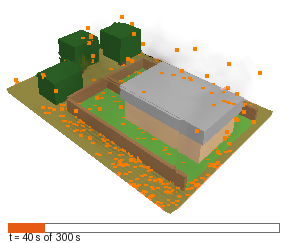
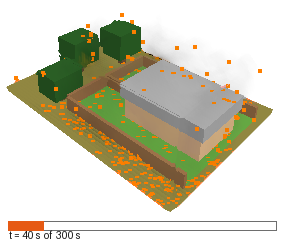
experiment 12 re-solved under the pipeline: 48.0 min, validate passes, finding reproduced
The dvc.yaml still wrote to FDS/cases/wick4 and passed run_fds.py the removed --case option, so it could not run. Now: deck path with its data directory, outputs to data/, config gains case_dir and ini_template, view.ini from the case's saved wick4.ini.

Solve 2,879 s of stepping, 48.0 min wall, against 51 min originally. Wall reaches 137 C at t=300 s against 136.2 C recorded and never approaches 350, so the finding -- the ladder tree is the dominant path, the fence spur alone does not light the house -- is reproduced.

README's wall_temperature.txt was in results/, which the render stage replaced; recorded rather than left dangling.

diff --git a/experiments/12_no_ladder_tree/README.md b/experiments/12_no_ladder_tree/README.md
@@ -55,9 +55,18 @@ Two caveats, stated plainly:
 My stated expectation was that the wall would still ignite but later. That was
 wrong — it does not ignite at all.
 
-**Cost.** 300 s in **51 min**, faster than the 70 min estimated.
+**Cost.** 300 s in **51 min** on the original run, **48.0 min** on the re-run
+under the pipeline (2,879 s of stepping), which agrees with the 70 min estimate
+being pessimistic.
 
-**Status.** Complete. Started 22:35, finished ~23:27.
+## Pipeline
+
+`dvc repro experiments/12_no_ladder_tree/dvc.yaml` runs four stages: solve,
+boundary, render, validate. `dvc.lock` is committed. Solver output goes to
+`data/`, this case's settings are in `render.json`, the saved viewpoint is
+`view.ini`. The `.s3d` volumes are uncached. The re-run passed `VALIDATION:
+PASS` and reproduced the finding to within a degree: the wall reaches 137 °C at
+t=300 s against 136.2 °C originally, and never approaches 350.
 
 **Note on embers.** Unlike the recorded experiment 07 run, this case has
 `EMBER_GENERATION_HEIGHT = 1.0, 8.0` on the grass surface, so its embers
@@ -68,19 +77,17 @@ actually loft. Experiment 07's deck was missing it; see that README.
 - `run_wick4.py` — native arm64, 4 threads
 - `wait_and_analyse.py` — waits for the solve, then the wall-temperature table
 - `render.json` — this case's config for the shared render pipeline
-- `results/` — `ignition_data.gif` (23 frames, time bar), `i_040.png`, `i_300.png`,
-  `wall_temperature.txt`
+- `view.ini` — the saved viewpoint
+- `results/` — `ignition_data.gif` (time bar), `i_040.png`, `i_300.png`
 
-Rendering uses the shared tools; see `docs/rendering.md`:
+The `wall_temperature.txt` this README used to list was in `results/`, which is
+a pipeline output: DVC replaced the directory's contents when the render ran.
+The numbers are in the table above and in `data/ign_state.json`.
 
-```bash
-python3 scripts/strip_terrain.py      FDS/cases/wick4 wick4
-python3 scripts/surface_temp.py       experiments/12_no_ladder_tree/render.json
-python3 scripts/render_animation.py   experiments/12_no_ladder_tree/render.json
-python3 scripts/validate_animation.py experiments/12_no_ladder_tree/render.json
-```
+Rendering is shared tooling; see `docs/rendering.md` for the config format.
 
-Only `WOOD WALL`, `ROOF` and `FENCE` are in this case's config. The ladder
-tree's `CANOPY`/`TRUNK` boxes are omitted because that tree is gone; the four
-remaining wild trees have no boundary output at all, so they cannot be coloured
-by temperature and are drawn in their geometry colours.
+Only `WOOD WALL` and `ROOF` are in this case's config — colour is written per
+SURFACE *name*, and painting `CANOPY` would repaint the four wild trees along
+with anything else sharing that name. The wild trees have no boundary output at
+all, so they cannot be coloured by temperature and are drawn in their geometry
+colours.
